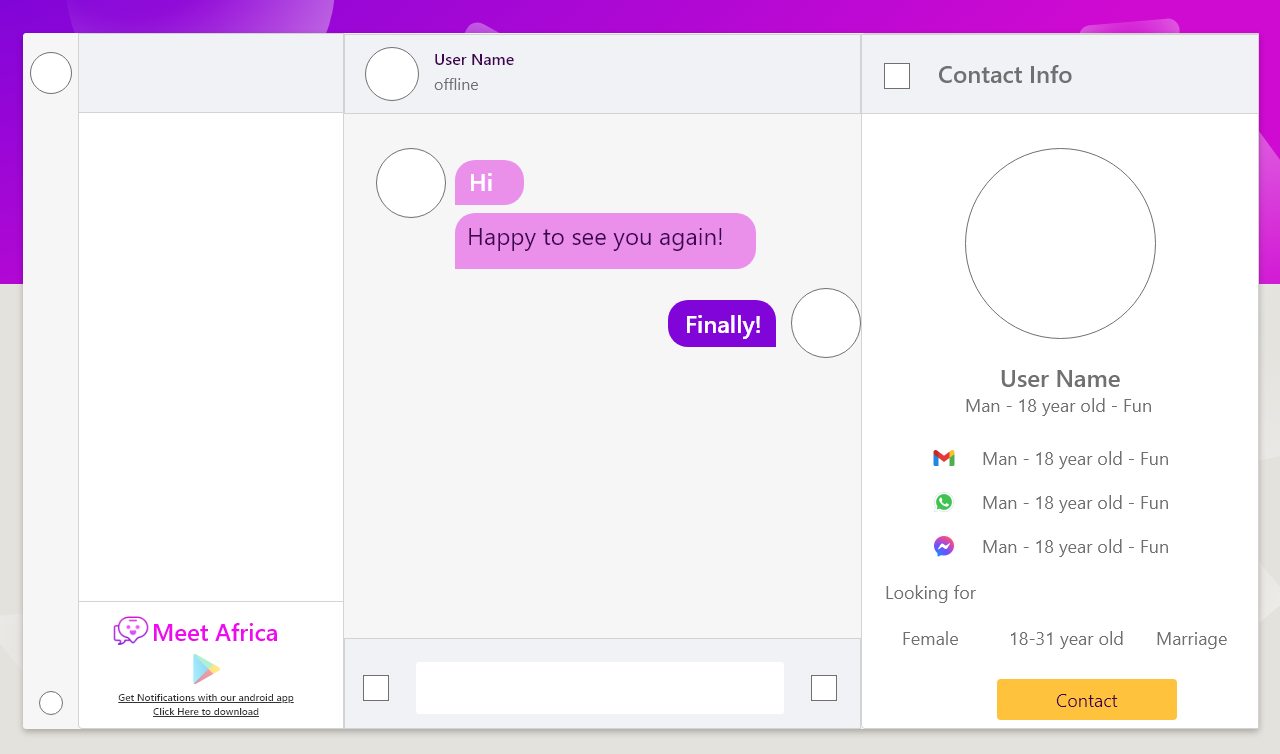
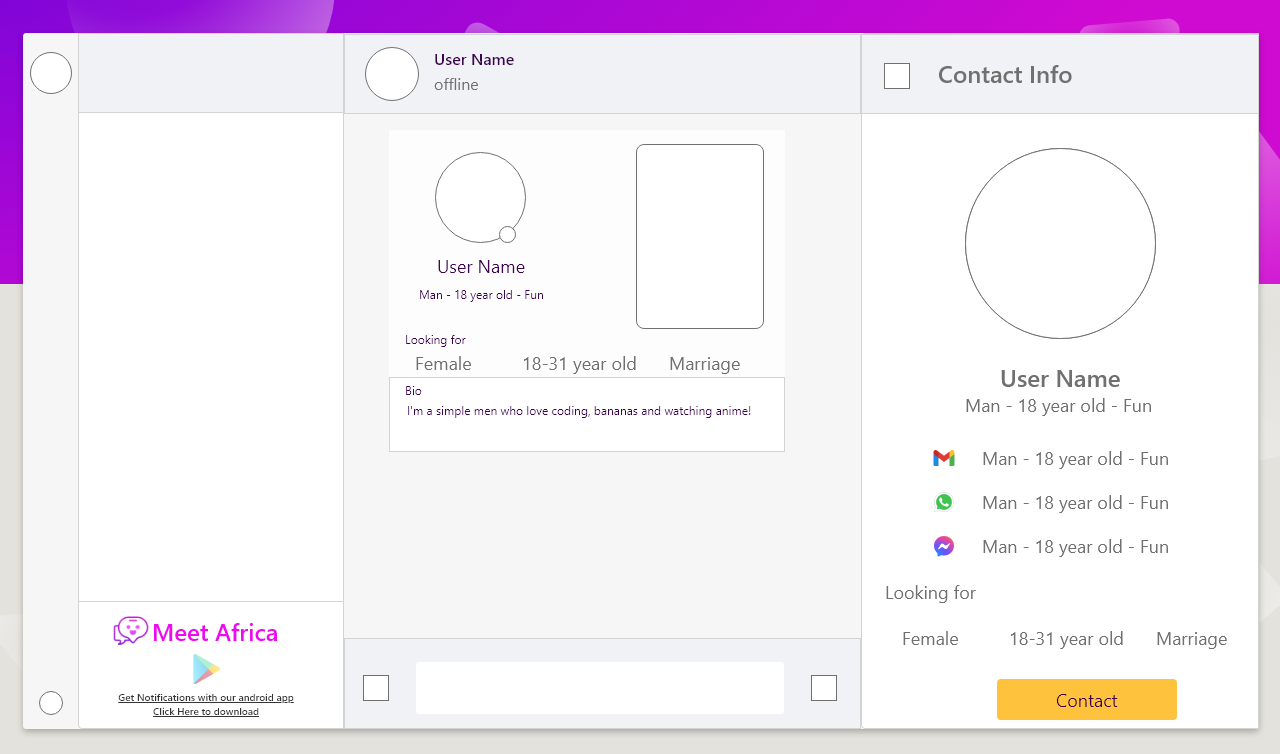
Add user overview

diff --git a/src/components/main/UserOverview/UserOverview.jsx b/src/components/main/UserOverview/UserOverview.jsx
@@ -1,0 +1,72 @@
+import React from 'react'
+import './useroverview.css'
+import myProfile from '../../../assets/images/profile_allassane.JPG'
+
+const UserOverview = (props) => {
+  const {user, detailed} = props
+  const { 
+    data: { 
+      id, phone, prenom, imgProfileUrl,
+      nom, language, localisation,
+      age, relation, sexe 
+    }, 
+    contact: { gmail, messenger, whatsapp }, 
+    info: { bio }, 
+    partner: { 
+      age: partnerAge, 
+      relation: partnerRelation, 
+      sexe: partnerSexe 
+    } 
+  } = user;
+
+  return (
+    <div className='max-width user-overview'>
+      <div className="row imgs-wrapper">
+        <div className="flex-center column profile-overview">
+          <div className="img-profile">
+            <img src={myProfile} alt={`${nom} profile`} />
+            {/* connected */}
+          </div>
+          <h4>{nom}</h4>
+          {localisation && <p>Linving in {localisation}</p>}
+          {language && <p>Speak {language}</p>}
+          <div className="searching">
+            <h6>Looking for:</h6>
+            <div className='column list-search'>
+              <p> {partnerSexe} | </p>
+              <p> {partnerAge} years old | </p>
+              <p> {partnerRelation}</p>
+            </div>
+          </div>
+          <button type='button' className='btn-action'>SEND MESSAGE</button>
+        </div>
+        <img src={myProfile} alt={`${nom} profile`} className='img-profile-big large-screen-only' />
+      </div>
+
+      {detailed && (
+        <ul className="contact-info">
+          <li>
+            <img src="" alt="" />
+            <p>{whatsapp}</p>
+          </li>
+          <li>
+            <img src="" alt="" />
+            <p>{messenger}</p>
+          </li>
+          <li>
+            <img src="" alt="" />
+            <p>{gmail}</p>
+          </li>
+        </ul>
+      )}
+      <div className="bio-wrapper">
+
+      </div>
+      {detailed && (
+        <button type='button'>Contact</button>
+      )}
+    </div>
+  )
+}
+
+export default UserOverview

diff --git a/src/_test_/testConstants.js b/src/_test_/testConstants.js
@@ -1,4 +1,4 @@
-export const listFriends = [
+export const listFriendsTest = [
     {
       name: "Trast00",
       idChat: "testChatID",
@@ -26,4 +26,61 @@ export const listFriends = [
       nbrNewMessage: 0,
       connected: false
     }
+]
+
+export const listUsersTest = [
+  {
+    data: {
+      id: "testID1",
+      nom: "Trast01",
+      imgProfileUrl: "",
+      language: "Français",
+      localisation: "Mali",
+      age: 18,
+      phone: "+22394369704",
+      prenom: "",
+      relation: "Marriage",
+      sexe: "Male",
+    },
+    contact: {
+      gmail: "testest@gmail.com",
+      messenger: "",
+      whatsapp: "",
+    },
+    info: {
+      bio: "My biographie 1",
+    },
+    partner: {
+      age:"18-33",
+      relation: "Marriage",
+      sexe: "Homme / Femme"
+    }
+  },
+  {
+    data: {
+      id: "testID2",
+      nom: "Trast02",
+      imgProfileUrl: "",
+      language: "Français",
+      localisation: "",
+      age: 18,
+      phone: "+22394369704",
+      prenom: "",
+      relation: "Amitie",
+      sexe: "Male",
+    },
+    contact: {
+      gmail: "t2estest@gmail.com",
+      messenger: "",
+      whatsapp: "",
+    },
+    info: {
+      bio: "My biographie 2",
+    },
+    partner: {
+      age:"18-33",
+      relation: "Marriage",
+      sexe: "Femme"
+    }
+  },
 ]

diff --git a/src/components/main/UserOverview/useroverview.css b/src/components/main/UserOverview/useroverview.css
@@ -1,0 +1,61 @@
+.user-overview {
+  background-color: #FDFDFD;
+  margin-bottom: 12px;
+  padding: 8px;
+}
+
+.imgs-wrapper {
+  flex-wrap: wrap;
+  justify-content: space-evenly;
+}
+
+.profile-overview {
+  min-width: 180px;
+  margin-bottom: 16px;
+}
+
+.profile-overview h4 {
+  font-size: 1.2rem;
+}
+
+.user-overview p {
+  font-size: 0.9rem;
+  color: var(--color-text-gray);
+}
+
+.img-profile img {
+  width: 80px;
+  height: 80px;
+  border-radius: 100px;
+  border: 2px solid var(--color-purple-ligth);
+  background-color: var(--color-purple-ligth);
+}
+
+.img-profile-big {
+  width: clamp(100px, 180px, 80%);
+  aspect-ratio: 2/3;
+  background-color: var(--color-purple-ligth);
+  border-radius: 16px;
+  border: 2px solid var(--color-purple-ligth);
+}
+
+.searching {
+  text-align: start;
+  padding: 12px;
+}
+
+.user-overview .btn-action {
+  font-size: 0.8rem;
+  font-weight: 500;
+}
+
+@media screen and (min-width:480px) {
+  .imgs-wrapper {
+    flex-direction: row;
+  }
+  .list-search {
+    flex-direction: row;
+    flex-wrap: wrap;
+    justify-content: space-between;
+  }
+}

diff --git a/src/components/main/ListFriends/ListFriends.jsx b/src/components/main/ListFriends/ListFriends.jsx
@@ -1,13 +1,12 @@
 import React from 'react'
-import { listFriends } from '../../../_test_/testConstants'
+import { listFriendsTest } from '../../../_test_/testConstants'
 import Friend from './Friend'
 import './ListFriends.css'
 
 const ListFriends = () => {
-  
   return (
     <ul className='max-width column no-styling listfriends'>
-      {listFriends.map(friend => {
+      {listFriendsTest.map(friend => {
         return <li key={friend.idChat}><Friend friend={friend} /></li>
       })}
     </ul>

diff --git a/src/components/main/ListUsers/ListUsers.jsx b/src/components/main/ListUsers/ListUsers.jsx
@@ -1,8 +1,18 @@
 import React from 'react'
+import { listUsersTest } from '../../../_test_/testConstants'
+import './ListUsers.css'
+import UserOverview from '../UserOverview/UserOverview'
 
 const ListUsers = () => {
+  
   return (
-    <div>ListUsers</div>
+    <ul className='row no-styling list-users'>
+      {listUsersTest.map(user => {
+        return <li key={user.idChat}>
+          <UserOverview user={user}/>
+        </li>
+      })}
+    </ul>
   )
 }
 

diff --git a/src/App.css b/src/App.css
@@ -81,6 +81,18 @@ a {
   display: none;
 }
 
+.large-screen-only {
+  display: none;
+}
+
 @media screen and (min-width:480px) {
-  
+  .desktop-only {
+    display: block;
+  }
+}
+
+@media screen and (min-width:780px) {
+  .large-screen-only {
+    display: block;
+  }
 }

diff --git a/src/components/main/ListFriends/ListFriends.css b/src/components/main/ListFriends/ListFriends.css
@@ -27,12 +27,12 @@
 }
 
 .listfriends .description-wrapper h4 {
-  font-size: 1.1rem;
+  font-size: 1rem;
   font-weight: 500;
 }
 
 .listfriends .description-wrapper p {
-  margin-top: 6px;
+  margin-top: 4px;
   font-size: 0.8rem;
 }
 

diff --git a/src/components/main/ListUsers/ListUsers.css b/src/components/main/ListUsers/ListUsers.css
@@ -1,0 +1,13 @@
+.list-users {
+  width: 100%;
+  height: 100%;
+  padding-top: 16px;
+  padding-bottom: 16px;
+  flex-wrap: wrap;
+  overflow-y: auto;
+  overflow-x: hidden;
+}
+
+.list-users::-webkit-scrollbar {
+  display: none;
+}

diff --git a/src/index.css b/src/index.css
@@ -12,6 +12,7 @@ body {
   --color-pink: #CF0AD1;
   --color-pink-ligth: #EA90EB;
   --color-text: #343333;
+  --color-text-gray: #909090;
   --color-error: #FF4F4F;
   --color-success: #4FDA9E;
 }

diff --git a/src/components/main/ListFriends/Friend.jsx b/src/components/main/ListFriends/Friend.jsx
@@ -12,7 +12,6 @@ const Friend = (props) => {
     date,
     connected 
   } = props.friend;
-  
   return (
     <div className='row friend'>
       <div className='img-wrapper'>

diff --git a/src/pages/Main/main.css b/src/pages/Main/main.css
@@ -12,6 +12,7 @@
   height: 100vh;
   background-color: #F6F6F6;
   flex-direction: column;
+  overflow: hidden;
 }
 
 .main-side {
